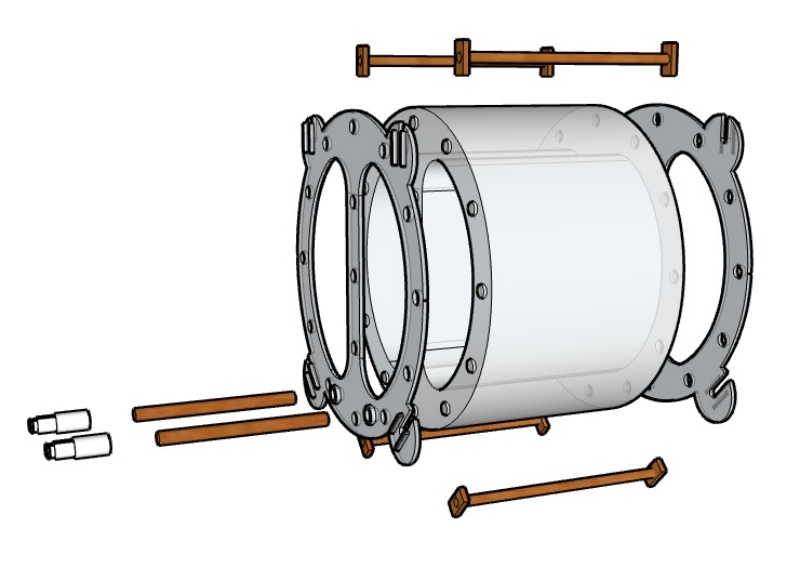
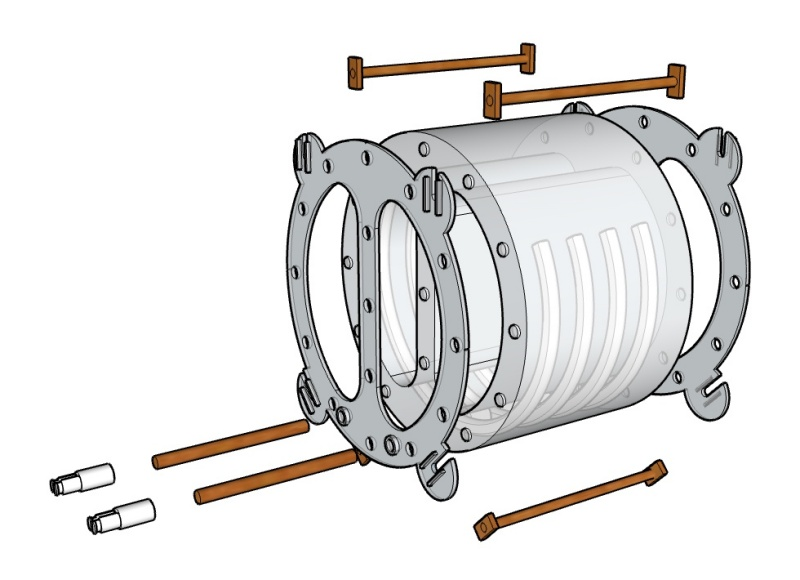
Update instructable

diff --git a/Instructable/instructions.md b/Instructable/instructions.md
@@ -8,19 +8,19 @@
 
 In the field of medical imaging, so called imaging phantoms are used  to evaluate, analyze, and tune the performance of various imaging  devices (Source: Wikipedia). This specially developed imaging  phantom simulates motion and deformation of a lung based on respiratory motion.
 
-The idea for this phantom came when I studied breathing motion in a lung. The motion in the lung is not uniform. The lower part of the lung moves more sideways whereas the upper part of the lung moves up and down. To simulate this, a phantom is required that does not only simulate motion but also simulates deformation. One examples that illustrates the motion in the lung: https://www.youtube.com/watch?v=kfcbAyLJHsI
+The idea for this phantom came when I studied breathing motion in a lung. The motion in the lung is not uniform. The lower part of the lung moves more sideways whereas the upper part of the lung moves up and down. To simulate this, a phantom is required that does not only simulate motion but also simulates deformation. One example that illustrates the motion in the lung: https://www.youtube.com/watch?v=kfcbAyLJHsI
 
-On an X-Ray image, the material and the density define what is a  bone, a liver or a lung. Silicone for example is similar to human tissue whereas gypsum is similar to bone. The chest of this phantom is made of silicone, the cast-in rips made of gypsum and the lungs are made of 3D printed PLA.
+On an X-Ray image, the material and the density define what is a  bone, a liver or a lung. Silicone for example is similar to human tissue whereas modelling plaster is similar to bone. The chest of this phantom is made of silicone, the cast-in rips made of modelling plaster and the lungs are made of 3D printed PLA.
 
 In the left lung,  there are two freely movable cylinders to simulate motion and deformation in the lung. In each cylinder there is a pocket and an object with a higher density than the density of the lung.
 
 This short animation gives you an idea how this phantom would look like on X-Ray images: https://youtu.be/TincNP1mlLw
 
-To generate the motion, the phantom uses LnR-Actuators, an Arduino  micro controller and an Adafruit Servo Shield. The micro controller is  required because you cannot be in the room when you acquire X-Ray  images. The phantom can be either be remote controlled from a PC over an USB cable, or you can start one of the pre-programmed motion patterns and use the phantom stand-alone.
+To generate the motion, the phantom uses three [LnR-Actuators](https://www.instructables.com/id/Linear-and-Rotation-Actuator/), an Arduino micro controller and an Adafruit Servo Shield. The micro controller is  required because you cannot be in the room when you acquire X-Ray  images. The phantom can be either be remote controlled from a PC over an USB cable, or you can start one of the pre-programmed motion patterns and use the phantom stand-alone.
 
-This phantom is suitable to evaluate and tune the performance of medical devices. A field of application could be the development of motion tracking and 4D reconstruction algorithms. With the choice of materials, imaging dosimetry should also be possible. 
+This phantom is suitable to evaluate and tune the performance of medical devices. A field of application could be the development of motion tracking and 4D reconstruction algorithms. With the used materials, imaging dosimetry should also be possible. 
 
-The direct material costs are approximately USD 200.
+The direct material costs are approximately USD 350.
 
 ### Supplies:
 
@@ -84,13 +84,11 @@ Use three small paper strips and glue the elements together. This is needed to i
 
 ## Step 3: Build the Phantom Body
 
-![assemblephantombody](./assemblephantombody.jpg)
-
-
-
 ![phantombodyform](./phantombodyform.jpg)
 
 ![phantombodycast](./phantombodycast.jpg)
+
+![assemblephantombody](./assemblephantombody.jpg)
 
 Insert the skeleton into the *LMXIP-ChestForm*. Use some pins as shown on the picture to hold the skeleton in place.
 
@@ -164,18 +162,18 @@ In the download is a PowerShell script that uploads the firmware and write the c
 
 - Confirm to run a test with: y
 
-  The test ends with the output: Complete and resets the firmware.
+  The test ends with the output: Complete, and resets the firmware.
 
-The phantom is ready to use.
+The phantom is ready for use.
 
 ## Step 10: Remote Control It With the Virtual Phantom Application
 
 https://youtu.be/cEjuUass-fE
 
-The Virtual Phantom Application is a .NET based application and part of the downloaded package (\Virms.NET\ViphApp.exe). The application is simulates X-Ray imaging. And it is possible to connect and control a phantom with the application.
+The Virtual Phantom Application is a .NET based application and part of the downloaded package (\Virms.NET\ViphApp.exe). The application simulates X-Ray imaging. And it is possible to connect and control a phantom with the application.
 
-The application always starts with the simulation of the Marker Motion  Phantom. Change the phantom on the left fly-in to "Lung Phantom".
+The program always starts with the simulation of the Marker Motion  Phantom. Change the phantom on the left control panel to "Lung Phantom".
 
-If the phantom is plugged-in, the port should be listed. Make sure the right phantom is selected before you press "Connect"
+If the phantom is plugged-in, the port should be listed. Make sure the right phantom is selected before you press "Connect".
 
-On the right fly-in it is possible to either control the motion axes individually or start a program.
+On the right control panel, it is possible to either control the motion axes individually or start a program.
